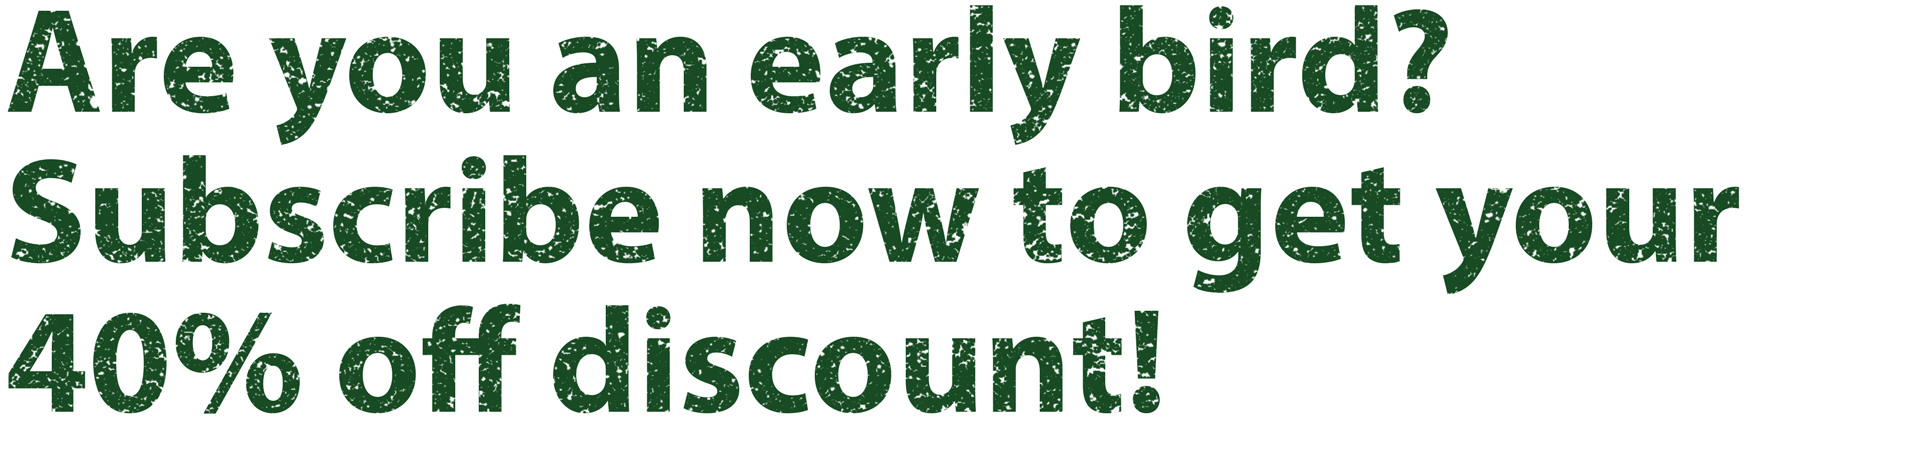
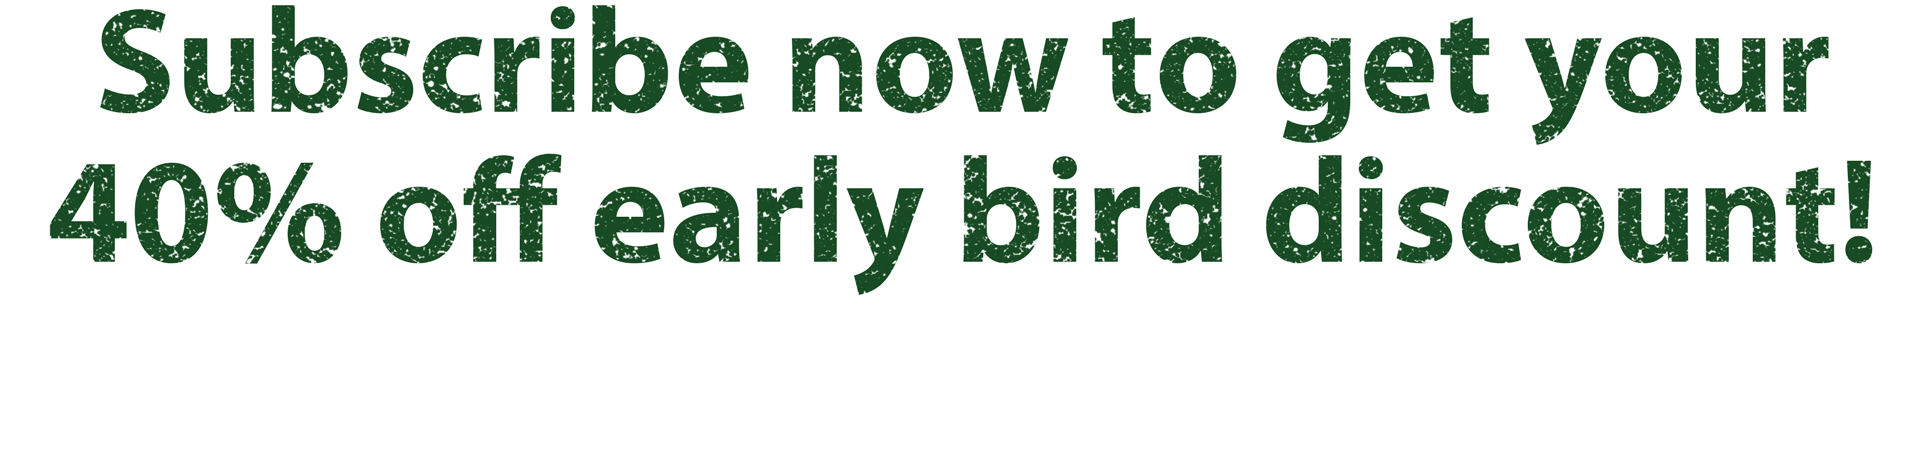
t

Changed region(s): [[0.0, 0.3242, 1.0, 0.6189], [0.0, 0.0, 0.9688, 0.2947], [0.0, 0.6189, 0.625, 0.8842]]

diff --git a/index.html b/index.html
@@ -627,6 +627,26 @@ if(typeof Muse == "undefined") window.Muse = {}; window.Muse.assets = {"required
       <div class="clip_frame colelem" id="u60975"><!-- image -->
        <img class="block" id="u60975_img" src="images/indiegogo-header-99-subscribe.png?crc=4252130313" alt="" width="812" height="201"/>
       </div>
+		 <!-- Begin Mailchimp Signup Form -->
+<link href="//cdn-images.mailchimp.com/embedcode/horizontal-slim-10_7.css" rel="stylesheet" type="text/css">
+<style type="text/css">
+	#mc_embed_signup{background:#fff; clear:left; font:14px Helvetica,Arial,sans-serif; width:100%;}
+	/* Add your own Mailchimp form style overrides in your site stylesheet or in this style block.
+	   We recommend moving this block and the preceding CSS link to the HEAD of your HTML file. */
+</style>
+<div id="mc_embed_signup">
+<form action="https://gmail.us20.list-manage.com/subscribe/post?u=670159dcf54b223fdd4664e90&amp;id=8c95842982" method="post" id="mc-embedded-subscribe-form" name="mc-embedded-subscribe-form" class="validate" target="_blank" novalidate>
+    <div id="mc_embed_signup_scroll">
+	
+	<input type="email" value="" name="EMAIL" class="email" id="mce-EMAIL" placeholder="email address" required>
+    <!-- real people should not fill this in and expect good things - do not remove this or risk form bot signups-->
+    <div style="position: absolute; left: -5000px;" aria-hidden="true"><input type="text" name="b_670159dcf54b223fdd4664e90_8c95842982" tabindex="-1" value=""></div>
+    <div class="clear"><input type="submit" value="Subscribe" name="subscribe" id="mc-embedded-subscribe" class="button"></div>
+    </div>
+</form>
+</div>
+
+<!--End mc_embed_signup-->
      </div>
     </div>
    </div>
